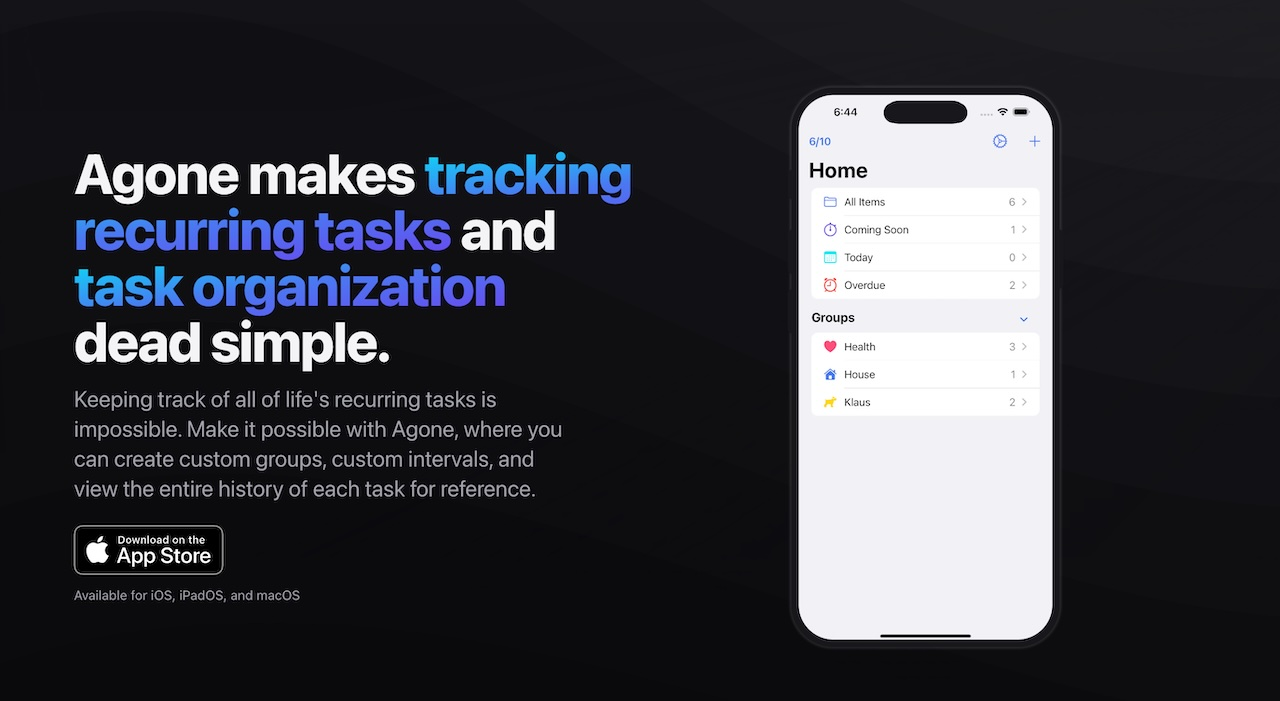
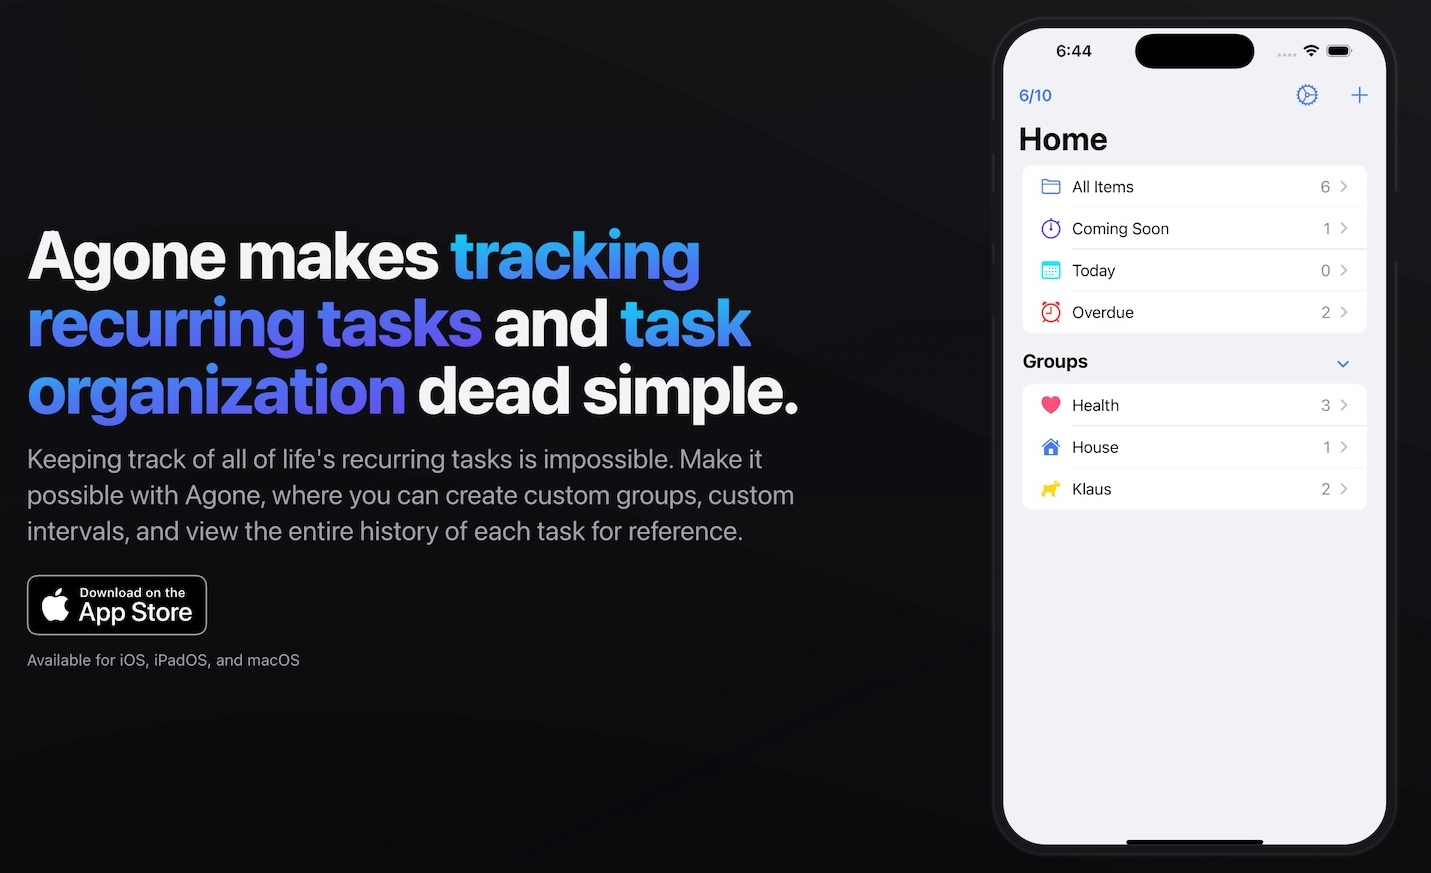
Better phone hero alignment, better og image

diff --git a/app/apps/agone/page.tsx b/app/apps/agone/page.tsx
@@ -37,7 +37,7 @@ export default function Work() {
   return (
     <>
       {/* Hero */}
-      <section className="container section-spacing flex flex-col md:flex-row items-center justify-between gap-12 md:gap-24">
+      <section className="container section-spacing flex flex-col md:flex-row items-center justify-between gap-12 xl:gap-24">
         <div className="flex-1">
           <h1 className="mt-4 text-4xl xl:text-6xl font-extrabold tracking-tight text-balance">
             Agone makes{' '}
@@ -75,8 +75,8 @@ export default function Work() {
       </section>
       {/* Steps */}
       <section className="section-spacing border-t">
-        <div className="container flex flex-col lg:flex-row items-center justify-between gap-12">
-          <div className="w-[300px] order-last lg:order-first">
+        <div className="container flex flex-col lg:flex-row items-center justify-between gap-12 xl:gap-24">
+          <div className="hidden lg:block w-[360px] order-last lg:order-first">
             <Phone>
               <Image
                 placeholder="blur"

diff --git a/components/Phone.tsx b/components/Phone.tsx
@@ -1,6 +1,6 @@
 export default function Phone(props) {
   return (
-    <div className="relative aspect-[288/600] max-w-72 rounded-[45px] shadow-[0_0_2px_2px_rgba(255,255,255,0.1)] border-8 border-zinc-900 ml-1">
+    <div className="relative aspect-[288/600] rounded-[45px] shadow-[0_0_2px_2px_rgba(255,255,255,0.1)] border-8 border-zinc-900 ml-1">
       {props.notch && (
         <div className="absolute top-2 left-1/2 transform -translate-x-1/2 w-[90px] h-[22px] bg-zinc-900 rounded-full z-20"></div>
       )}
